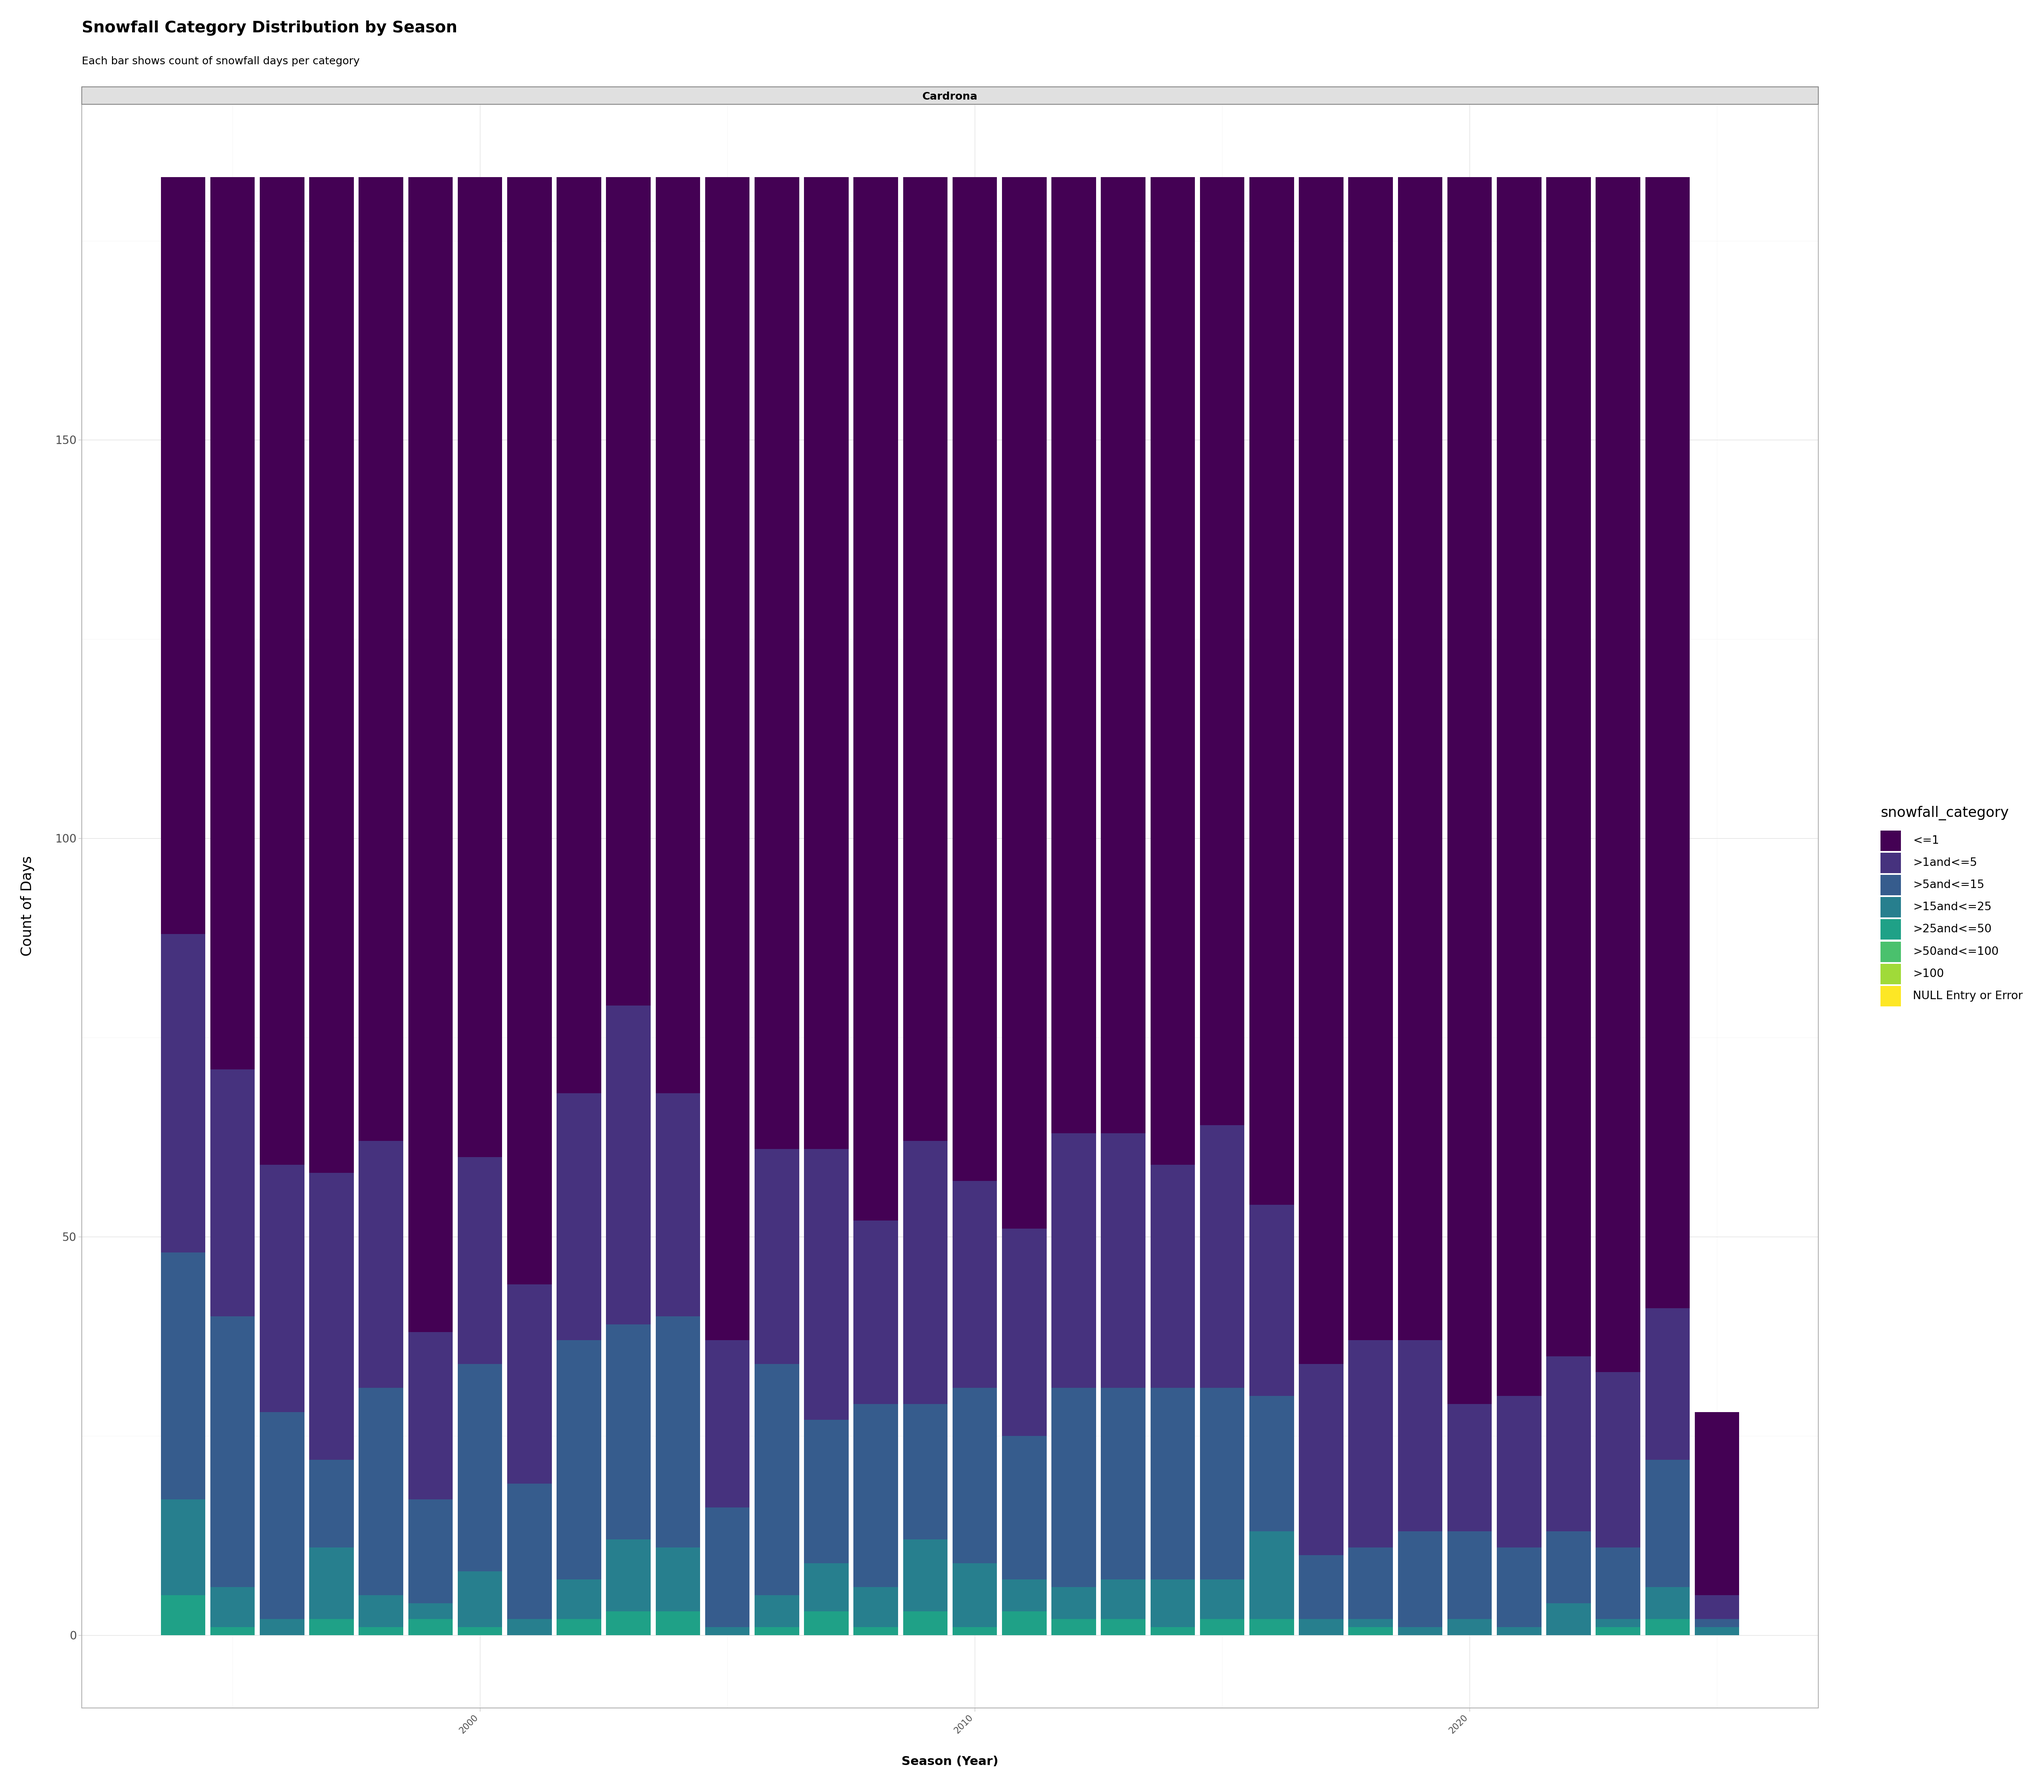
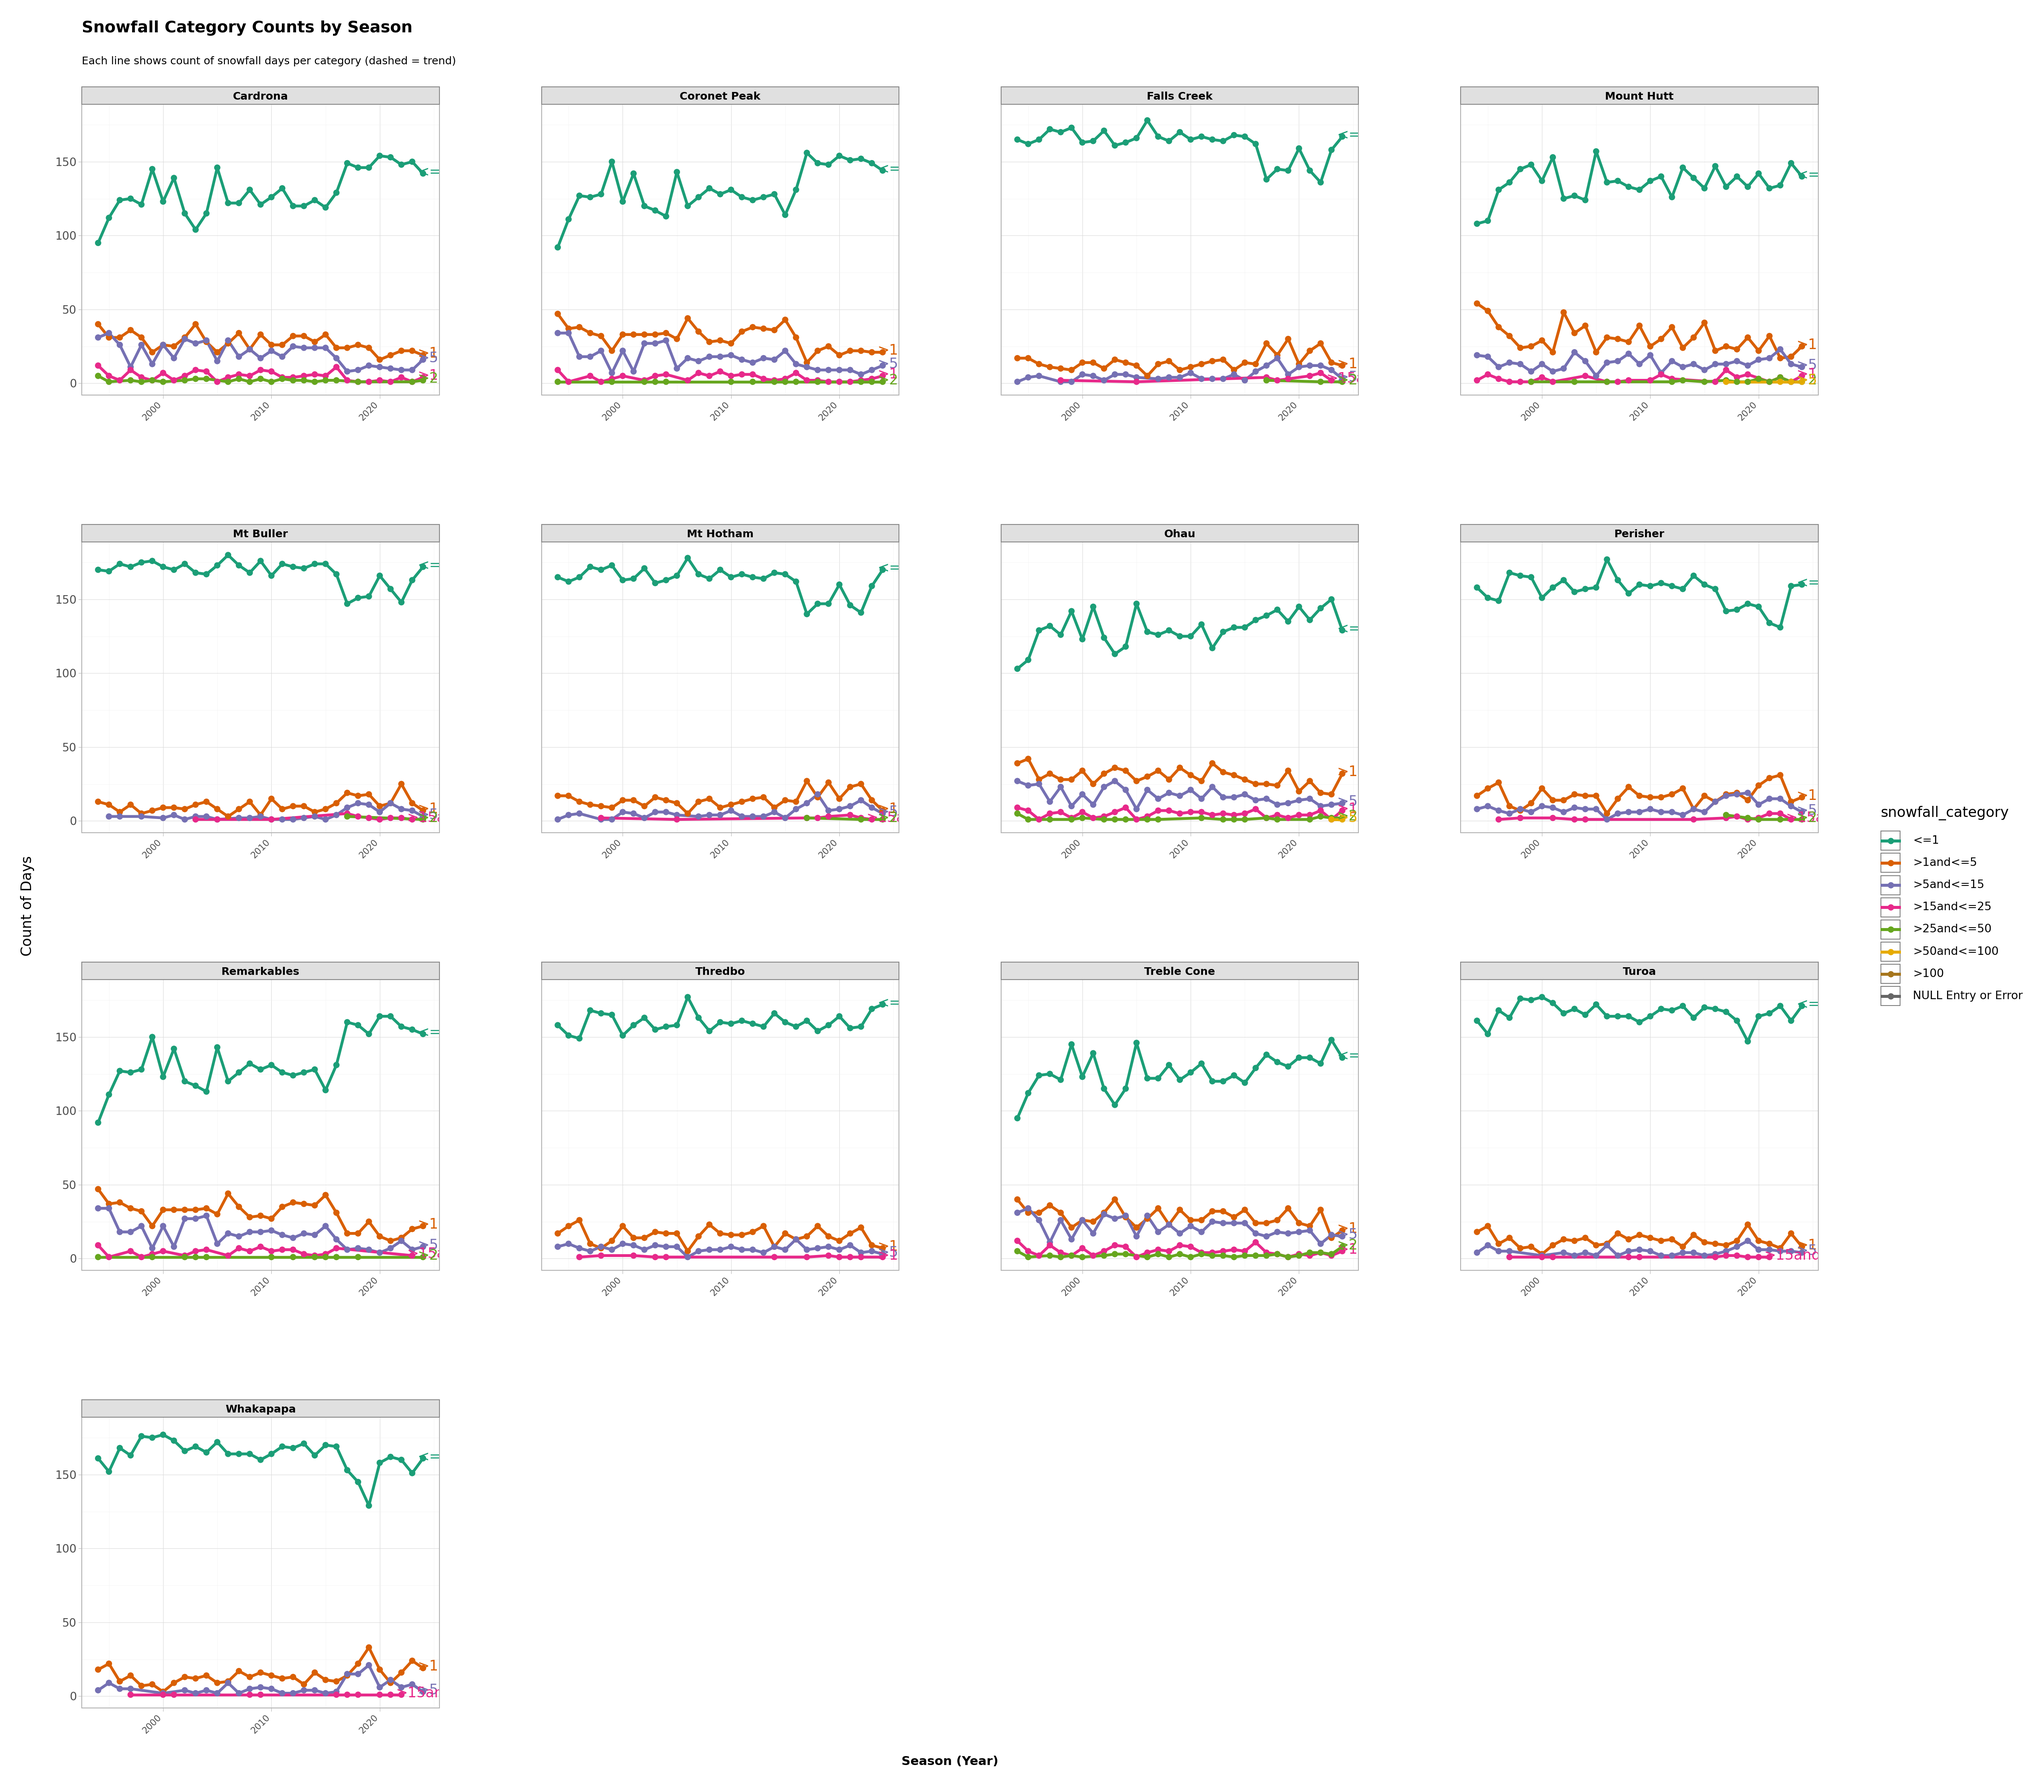
Off to bed, updating requirements and improving the new visual

diff --git a/scripts/Python_Visual.py b/scripts/Python_Visual.py
@@ -111,7 +111,7 @@ p2 = (
     + geom_point(aes(fill='above_avg'), size=4, color='black', alpha=0.8, show_legend=False)
     + labs(
         title='Winter Snowfall vs Long-Term & Overall Average',
-        subtitle='Dashed line = ski field avg; dotted orange = overall avg; blue=above avg, orange=below avg',
+        subtitle='Dashed line = ski field avg; dotted orange =overall avg; blue=above avg, orange=below avg',
         x='Year', y='Total Winter Snowfall (cm)'
     )
     + scale_fill_manual(values={True: '#1f77b4', False: '#ff7f0e'})
@@ -163,15 +163,42 @@ df_cat['snowfall_category'] = pd.Categorical(df_cat['snowfall_category'], catego
 # Create a facet label for consistency with other plots
 df_cat['facet_label'] = df_cat['ski_field']
 
+category_colors = {
+    '<=1': '#1b9e77',
+    '>1and<=5': '#d95f02',
+    '>5and<=15': '#7570b3',
+    '>15and<=25': '#e7298a',
+    '>25and<=50': '#66a61e',
+    '>50and<=100': '#e6ab02',
+    '>100': '#a6761d',
+    'NULL Entry or Error': '#666666'
+}
+
+df_cat = df_cat[df_cat['Season'] != 2025]
+
+df_cat_labels = (
+    df_cat.sort_values('Season')
+    .groupby(['facet_label', 'snowfall_category'])
+    .tail(1)
+)
+
 p4 = (
-    ggplot(df_cat, aes(x='Season', y='countx', fill='snowfall_category'))
-    + geom_bar(stat='identity', position='stack')
-    + facet_wrap('~facet_label', ncol=4, scales='free_x')
+    ggplot(df_cat, aes(x='Season', y='countx', color='snowfall_category', group='snowfall_category'))
+    + geom_line(size=1.8)
+    + geom_point(size=3)
+    # + geom_smooth(method='glm', se=False, linetype='dashed', size=1.2, alpha=0.7)
+    + geom_text(
+        data=df_cat_labels,
+        mapping=aes(x='Season', y='countx', label='snowfall_category', color='snowfall_category'),
+        ha='left', nudge_x=-0.5, nudge_y=1, size=16, show_legend=False
+    )
     + labs(
-        title='Snowfall Category Distribution by Season',
-        subtitle='Each bar shows count of snowfall days per category',
+        title='Snowfall Category Counts by Season',
+        subtitle='Each line shows count of snowfall days per category (dashed = trend)',
         x='Season (Year)', y='Count of Days'
     )
+    + scale_color_manual(values=category_colors)
+    + facet_wrap('~facet_label', scales='free_x', ncol=4)
     + theme_light(base_size=16)
     + theme(
         legend_position='right',
